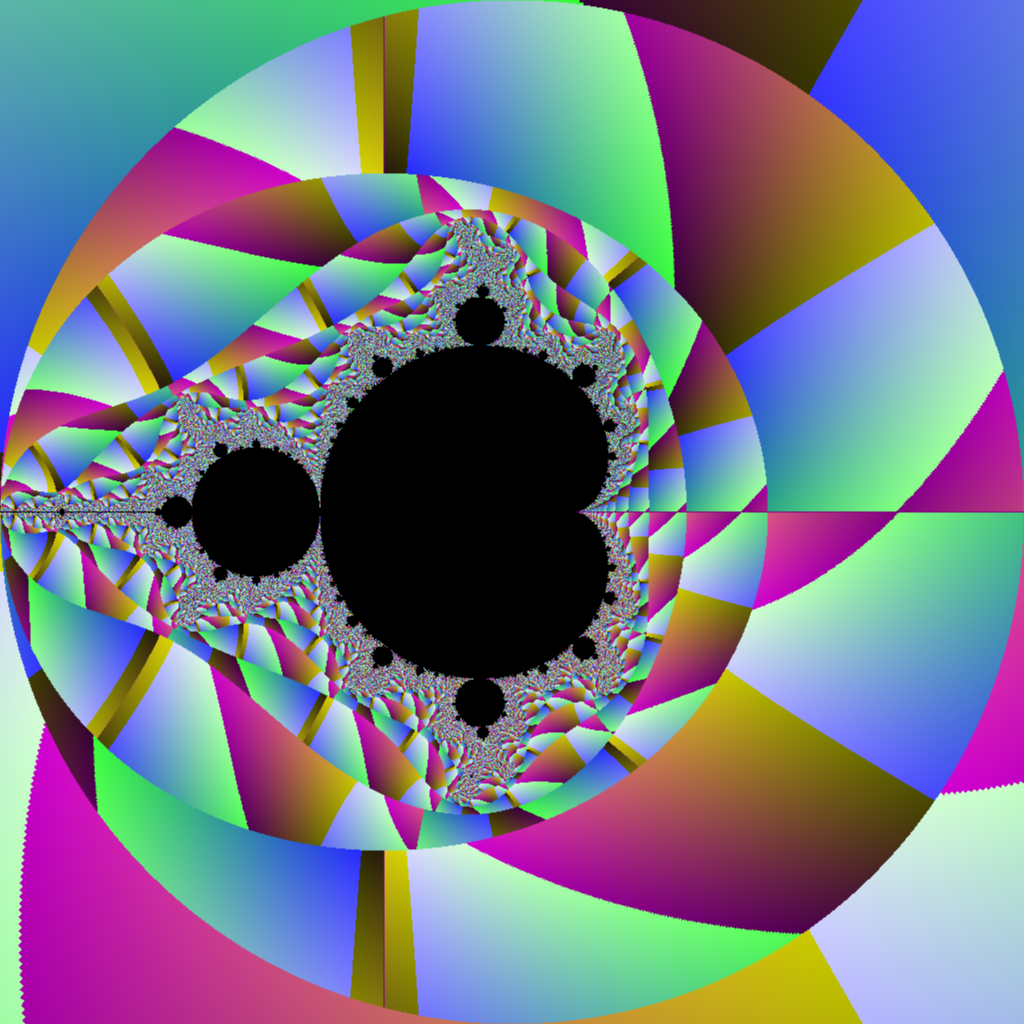
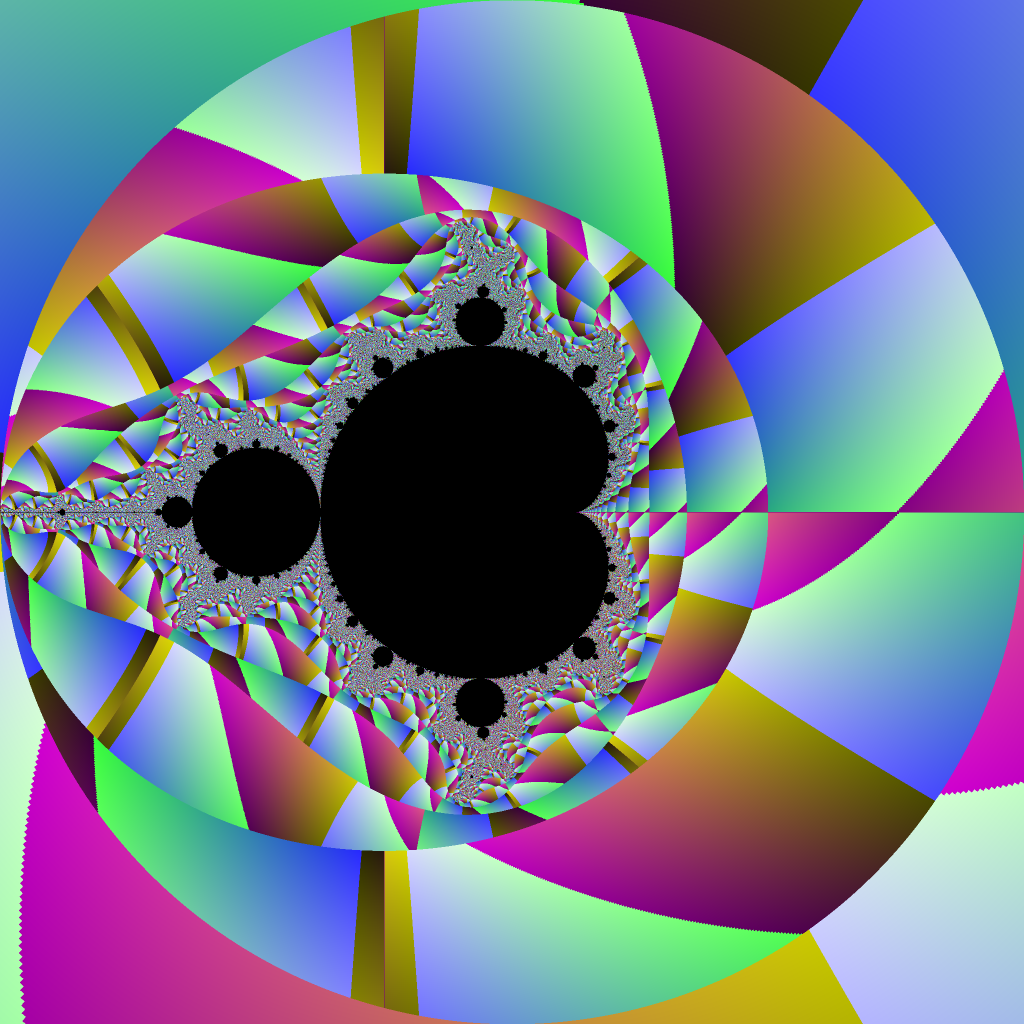
Fixed supersampling

Changed region(s): [[0.0, 0.1875, 0.625, 0.7812]]

diff --git a/3.6/main.go b/3.6/main.go
@@ -22,30 +22,30 @@ func main() {
 	const (
 		xmin, ymin, xmax, ymax = -2, -2, +2, +2
 		width, height          = 1024, 1024
+		widthP, heightP = width * 2, height * 2
 	)
-	widthP, heightP := width, height
+
+	var superSamples [widthP][heightP]color.Color
+
+	for py := 0; py < heightP; py++ {
+		y := float64(py) / heightP * (ymax - ymin) + ymin
+		for px := 0; px < widthP; px++ {
+		    x := float64(px) / widthP * (xmax - xmin) + xmin
+		    z := complex(x, y)
+
+		    superSamples[px][py] = mandelbrot(z)
+		}
+	}
 
 	img := image.NewRGBA(image.Rect(0, 0, width, height))
-	for py := 0; py < heightP; py++ {
-		y1 := float64(py)/float64(widthP)*(ymax-ymin) + ymin
-		y2 := float64(py+1)/float64(heightP)*(ymax-ymin) + ymin
-		for px := 0; px < widthP; px++ {
-			x1 := float64(px)/float64(widthP)*(xmax-xmin) + xmin
-			x2 := float64(px+1)/float64(heightP)*(xmax-xmin) + xmin
-			z11 := complex(x1, y1)
-			z12 := complex(x1, y2)
-			z21 := complex(x2, y1)
-			z22 := complex(x2, y2)
-			// Image point (px, py) represents complex value z.
-			c1 := mandelbrot(z11)
-			c2 := mandelbrot(z12)
-			c3 := mandelbrot(z21)
-			c4 := mandelbrot(z22)
+	for py := 0; py < height; py++ {
+		for px := 0; px < width; px++ {
+			sj, si := py * 2, px * 2
 			// Averaging colors
-			r1,g1,b1,_ := c1.RGBA()
-			r2,g2,b2,_ := c2.RGBA()
-			r3,g3,b3,_ := c3.RGBA()
-			r4,g4,b4,_ := c4.RGBA()
+			r1,g1,b1,_ := superSamples[si][sj].RGBA()
+			r2,g2,b2,_ := superSamples[si+1][sj].RGBA()
+			r3,g3,b3,_ := superSamples[si][sj+1].RGBA()
+			r4,g4,b4,_ := superSamples[si+1][sj+1].RGBA()
 			r := (r1+r2+r3+r4)/4
 			g := (g1+g2+g3+g4)/4
 			b := (b1+b2+b3+b4)/4
